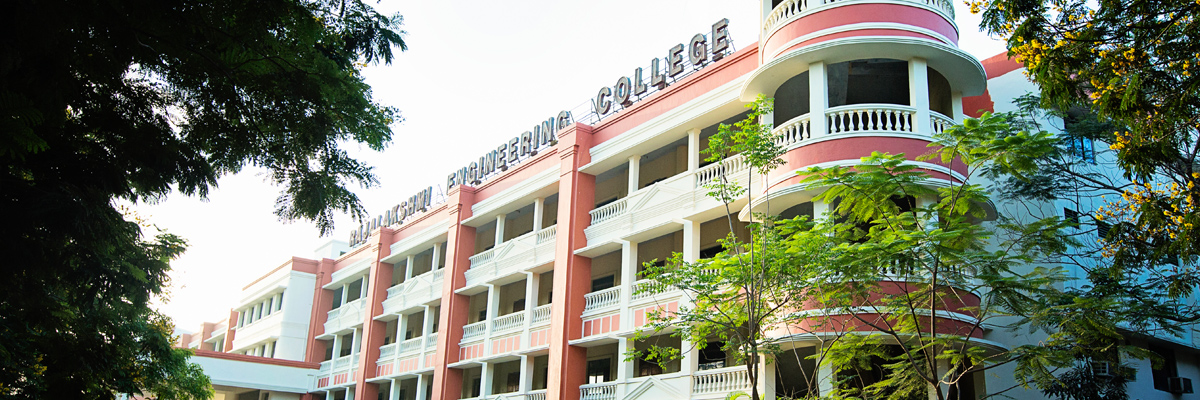
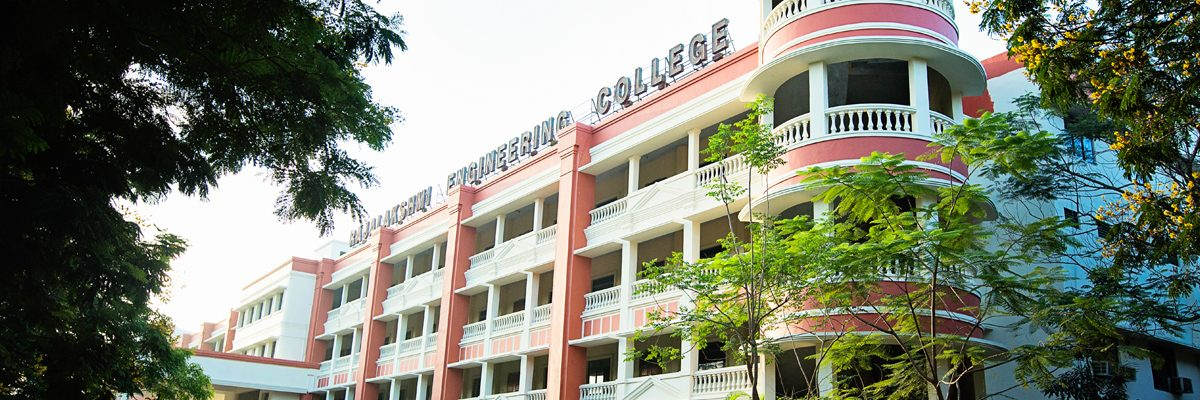
Optimize all images to webp

diff --git a/content/posts/savefirefox/index.md b/content/posts/savefirefox/index.md
@@ -17,7 +17,7 @@ In today's digital age, the web browser has become an essential tool for accessi
 
 - Chrome is also often made fun of for being a ram hungry software and often uses up all the ram. Here's a fun little meme I found on the internet!
 
-![](rameatingsim.jpg)
+![Meme](rameatingsim.webp)
 
 - **Customization**: Firefox allows users to customize their browser experience with a wide range of extensions, themes, and add-ons. Chrome's customization options are limited in comparison.
 

diff --git a/content/posts/whyiuselinux/index.md b/content/posts/whyiuselinux/index.md
@@ -14,7 +14,7 @@ More often than not, I get asked the question - "Why do you use Linux, what is i
 
 ## What is Linux?
 
-![Operating System Levels](os-levels.png "Operating System Levels")
+![Operating System Levels](os-levels.webp "Operating System Levels")
 
 Just like Windows, MacOS, iOS, Android, etc. Linux is just another operating system. Fun fact, the Android operating system is based on Linux.
 
